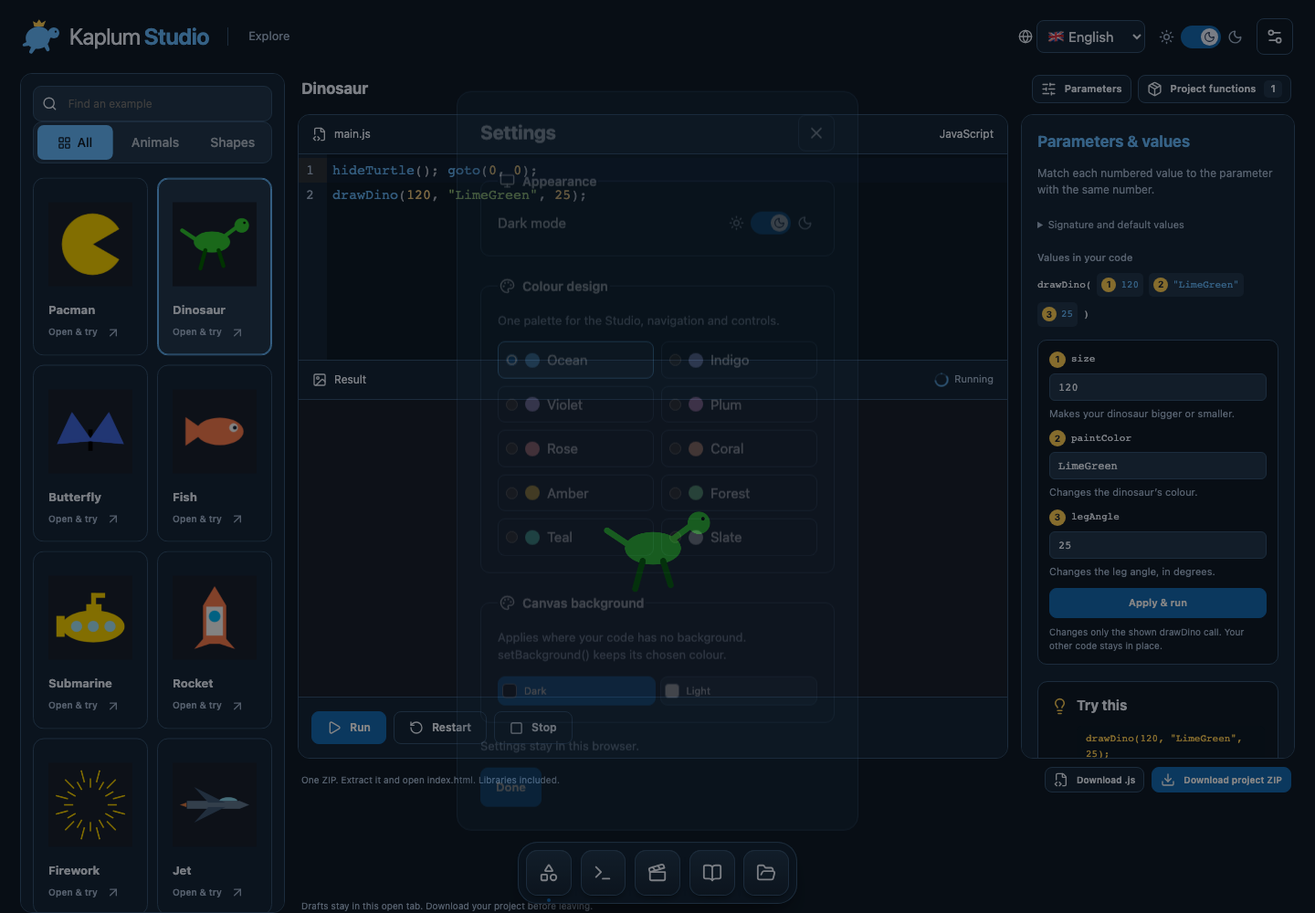
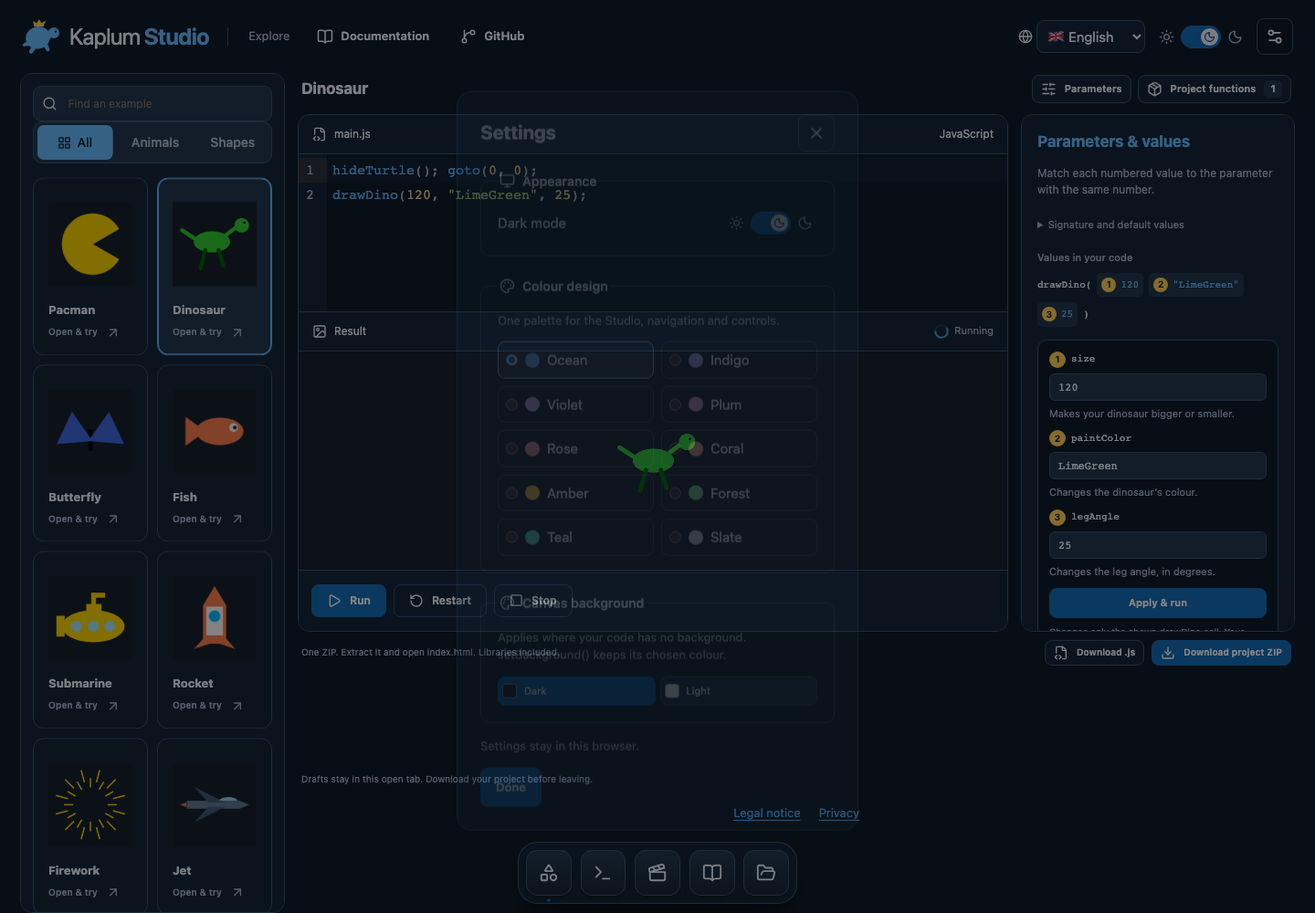
Add multilingual documentation and public release navigation

diff --git a/src/docs-copy.js b/src/docs-copy.js
@@ -1,0 +1,107 @@
+export const docsCopy = {
+  "en": {
+    "title": "Documentation",
+    "studio": "Open Studio",
+    "search": "Search commands",
+    "start": "Getting started",
+    "startText": "Choose a figure, change a parameter and watch the result. Open it in Studio to edit the JavaScript, then use Run, Restart or Stop.",
+    "parameters": "Parameters",
+    "parametersText": "Arguments are the values inside parentheses. Their order matches the parameter names in the signature. A default after = is used when an argument is omitted. Strings need quotes; numbers and booleans do not.",
+    "coordinates": "Coordinates",
+    "coordinatesText": "The centre is (0, 0). Positive x goes right; positive y goes up. Distances use logical drawing units, not screen pixels. 0° points up; positive turns go clockwise. hideTurtle() hides the arrow without moving it.",
+    "reference": "Command reference",
+    "offline": "Offline projects",
+    "offlineText": "Download project ZIP from Studio. Extract the whole ZIP and open index.html. Edit program.js and reload the browser. Keep the bundled engine files beside the HTML. No account, server or internet is required.",
+    "about": "About this release",
+    "aboutText": "An early open-source teaching tool by Enis Uysal. The project code is MIT; third-party UI components retain their own notices. Translations are AI-assisted and have not received native-speaker review. Safari and real classroom evaluation remain outstanding. Drafts are held in memory; export before reloading.",
+    "meaning": "Meaning",
+    "defaultValue": "Default",
+    "example": "Example",
+    "try": "Try in Studio",
+    "empty": "No commands found"
+  },
+  "de": {
+    "title": "Dokumentation",
+    "studio": "Studio öffnen",
+    "search": "Befehle suchen",
+    "start": "Erste Schritte",
+    "startText": "Wähle eine Figur, ändere einen Parameter und beobachte das Ergebnis. Öffne sie im Studio, um JavaScript zu bearbeiten. Nutze Ausführen, Neustart oder Stoppen.",
+    "parameters": "Parameter",
+    "parametersText": "Argumente sind die Werte in den Klammern. Ihre Reihenfolge entspricht den Parametern der Signatur. Ein Standardwert nach = gilt, wenn du ein Argument weglässt. Texte brauchen Anführungszeichen; Zahlen und Wahrheitswerte nicht.",
+    "coordinates": "Koordinaten",
+    "coordinatesText": "Die Mitte ist (0, 0). Positives x geht nach rechts, positives y nach oben. Abstände sind logische Zeicheneinheiten, keine Bildschirmpixel. 0° zeigt nach oben; positive Drehungen gehen im Uhrzeigersinn. hideTurtle() versteckt den Pfeil, ohne ihn zu bewegen.",
+    "reference": "Befehlsreferenz",
+    "offline": "Offline-Projekte",
+    "offlineText": "Lade im Studio das Projekt-ZIP herunter. Entpacke das gesamte ZIP und öffne index.html. Bearbeite program.js und lade den Browser neu. Die Engine-Dateien müssen neben dem HTML bleiben. Kein Konto, Server oder Internet nötig.",
+    "about": "Über diese Version",
+    "aboutText": "Ein frühes Open-Source-Lernwerkzeug von Enis Uysal. Der Projektcode ist MIT-lizenziert; UI-Komponenten behalten ihre eigenen Lizenzhinweise. Übersetzungen sind KI-unterstützt und noch nicht muttersprachlich geprüft. Safari und Unterrichtserprobung stehen aus. Entwürfe liegen im Arbeitsspeicher: vor dem Neuladen exportieren.",
+    "meaning": "Bedeutung",
+    "defaultValue": "Standard",
+    "example": "Beispiel",
+    "try": "Im Studio ausprobieren",
+    "empty": "Keine Befehle gefunden"
+  },
+  "ja": {
+    "title": "ドキュメント",
+    "studio": "Studioを開く",
+    "search": "コマンドを検索",
+    "start": "はじめに",
+    "startText": "図形を選び、パラメータを変えて結果を見ましょう。StudioでJavaScriptを編集し、実行・再開始・停止を使います。",
+    "parameters": "パラメータ",
+    "parametersText": "引数は括弧内の値です。順番はシグネチャのパラメータ名に対応します。=の後は省略時の既定値です。文字列には引用符が必要ですが、数値と真偽値には不要です。",
+    "coordinates": "座標",
+    "coordinatesText": "中心は(0, 0)です。正のxは右、正のyは上です。距離は画面のピクセルではなく論理描画単位です。0°は上、正の回転は時計回りです。hideTurtle()は位置を変えず矢印を隠します。",
+    "reference": "コマンド一覧",
+    "offline": "オフラインのプロジェクト",
+    "offlineText": "StudioからプロジェクトZIPをダウンロードし、すべて展開してindex.htmlを開きます。program.jsを編集してブラウザを再読み込みします。エンジンのファイルもHTMLと一緒に保持します。アカウント、サーバー、インターネットは不要です。",
+    "about": "このバージョンについて",
+    "aboutText": "Enis Uysalによる初期のオープンソース学習ツールです。プロジェクトはMITライセンスで、外部UIのライセンス表記も保持します。翻訳はAI支援によるもので、母語話者の確認は未実施です。Safariと授業での評価も未実施です。下書きはメモリ内にあるため、再読み込み前にエクスポートしてください。",
+    "meaning": "意味",
+    "defaultValue": "既定値",
+    "example": "例",
+    "try": "Studioで試す",
+    "empty": "コマンドが見つかりません"
+  },
+  "tr": {
+    "title": "Belgeler",
+    "studio": "Studio’yu aç",
+    "search": "Komut ara",
+    "start": "Başlangıç",
+    "startText": "Bir şekil seç, parametreyi değiştir ve sonucu izle. JavaScript’i düzenlemek için Studio’da aç; çalıştır, yeniden başlat veya durdur.",
+    "parameters": "Parametreler",
+    "parametersText": "Argümanlar parantez içindeki değerlerdir. Sıraları imzadaki parametre adlarıyla eşleşir. = sonrasındaki değer, argüman atlanırsa kullanılır. Metinler tırnak ister; sayılar ve mantıksal değerler istemez.",
+    "coordinates": "Koordinatlar",
+    "coordinatesText": "Merkez (0, 0) noktasıdır. Pozitif x sağa, pozitif y yukarı gider. Mesafeler ekran pikseli değil mantıksal çizim birimidir. 0° yukarı bakar; pozitif dönüş saat yönündedir. hideTurtle() oku konumunu değiştirmeden gizler.",
+    "reference": "Komut referansı",
+    "offline": "Çevrimdışı projeler",
+    "offlineText": "Studio’dan proje ZIP dosyasını indir. Tümünü çıkar ve index.html dosyasını aç. program.js dosyasını düzenle ve tarayıcıyı yenile. Motor dosyalarını HTML ile birlikte tut. Hesap, sunucu veya internet gerekmez.",
+    "about": "Bu sürüm hakkında",
+    "aboutText": "Enis Uysal’ın erken aşamadaki açık kaynak öğrenme aracı. Proje MIT lisanslıdır; harici UI bileşenleri kendi lisans bildirimlerini korur. Çeviriler AI desteklidir ve ana dili konuşanlarca incelenmemiştir. Safari ve sınıf değerlendirmesi henüz yapılmamıştır. Taslaklar bellektedir; yenilemeden önce dışa aktar.",
+    "meaning": "Anlam",
+    "defaultValue": "Varsayılan",
+    "example": "Örnek",
+    "try": "Studio’da dene",
+    "empty": "Komut bulunamadı"
+  },
+  "hy": {
+    "title": "Փաստաթղթեր",
+    "studio": "Բացել Studio-ն",
+    "search": "Որոնել հրամաններ",
+    "start": "Առաջին քայլերը",
+    "startText": "Ընտրիր պատկեր, փոխիր պարամետրը և դիտիր արդյունքը։ Բացիր Studio-ում՝ JavaScript-ը խմբագրելու համար, ապա գործարկիր, վերագործարկիր կամ կանգնեցրու։",
+    "parameters": "Պարամետրեր",
+    "parametersText": "Արգումենտները փակագծերի արժեքներն են։ Դրանց հերթականությունը համապատասխանում է ստորագրության պարամետրերին։ = նշանից հետո գրվածը լռելյայն արժեքն է։ Տեքստը պետք է լինի չակերտներում, թվերն ու տրամաբանական արժեքները՝ ոչ։",
+    "coordinates": "Կոորդինատներ",
+    "coordinatesText": "Կենտրոնը (0, 0) է։ Դրական x-ը գնում է աջ, դրական y-ը՝ վերև։ Հեռավորությունները տրամաբանական գծման միավորներ են, ոչ էկրանի պիքսելներ։ 0°-ն ուղղված է վերև, դրական պտույտը՝ ժամացույցի սլաքի ուղղությամբ։ hideTurtle()-ը թաքցնում է սլաքը՝ առանց տեղափոխելու։",
+    "reference": "Հրամանների տեղեկատու",
+    "offline": "Անցանց նախագծեր",
+    "offlineText": "Studio-ից ներբեռնիր նախագծի ZIP-ը։ Ամբողջությամբ բացիր արխիվը և բացիր index.html-ը։ Խմբագրիր program.js-ը և վերաբեռնիր դիտարկիչը։ Շարժիչի ֆայլերը պահիր HTML-ի կողքին։ Հաշիվ, սերվեր կամ ինտերնետ պետք չէ։",
+    "about": "Այս տարբերակի մասին",
+    "aboutText": "Enis Uysal-ի վաղ փուլի բաց կոդով ուսուցման գործիք։ Նախագիծը MIT լիցենզիայով է, արտաքին UI բաղադրիչները պահպանում են իրենց լիցենզիաները։ Թարգմանությունները կատարվել են AI-ի օգնությամբ և մայրենի լեզվով ստուգված չեն։ Safari-ի ու դասարանում գնահատումը դեռ չի կատարվել։ Սևագրերը հիշողության մեջ են․ արտահանիր մինչև վերաբեռնելը։",
+    "meaning": "Իմաստ",
+    "defaultValue": "Լռելյայն",
+    "example": "Օրինակ",
+    "try": "Փորձել Studio-ում",
+    "empty": "Հրամաններ չեն գտնվել"
+  }
+};

diff --git a/components/Documentation.jsx b/components/Documentation.jsx
@@ -1,0 +1,66 @@
+"use client";
+import { useEffect, useRef, useState } from "react";
+import { BookOpen, GitBranch, ArrowUpRight, Search, Sun, Moon } from "lucide-react";
+import { docsCopy } from "../src/docs-copy";
+import { reference } from "../src/reference";
+import { parameterMeanings } from "../src/parameters";
+import { assetUrl } from "../src/asset-url";
+import { messages, languages } from "./messages";
+import { legalCopy } from "../src/legal";
+import CataloguePreview from "./CataloguePreview";
+const repository = "https://github.com/pengusto/kaplum-studio";
+export default function Documentation() {
+  const [locale, setLocale] = useState("en"), [theme, setTheme] = useState("dark");
+  const [query, setQuery] = useState(""), [selected, setSelected] = useState("forward");
+  const paused = useRef(new Set());
+  useEffect(() => {
+    try {
+      const saved = JSON.parse(localStorage.getItem("kaplum-settings-v1") || "{}");
+      const requested = new URLSearchParams(location.search).get("lang");
+      if (docsCopy[requested || saved.locale]) setLocale(requested || saved.locale);
+      if (saved.theme === "light") setTheme("light");
+    } catch {}
+  }, []);
+  useEffect(() => { document.documentElement.lang = locale; document.documentElement.dataset.theme = theme; }, [locale, theme]);
+  function preference(key, value) {
+    if (key === "locale") setLocale(value); else setTheme(value);
+    try { const saved = JSON.parse(localStorage.getItem("kaplum-settings-v1") || "{}"); localStorage.setItem("kaplum-settings-v1", JSON.stringify({ ...saved, [key]: value })); } catch {}
+  }
+  const d = docsCopy[locale], t = messages(locale);
+  const entry = reference.find(item => item.name === selected);
+  const params = parameterMeanings(entry, locale);
+  const filtered = reference.filter(item => `${item.name} ${item.alias} ${item.text[locale]}`.toLowerCase().includes(query.toLowerCase()));
+  const sections = ["start", "parameters", "coordinates", "reference", "offline", "about"];
+  return <div className="documentation">
+    <div className="docs-topbar">
+      <a className="brand" href={assetUrl("/#figures")}>Kaplum <strong>Studio</strong></a>
+      <div className="docs-tools">
+        <label><span className="sr-only">{t("language")}</span><select aria-label={t("language")} value={locale} onChange={e => preference("locale", e.target.value)}>{languages.map(([id, , name]) => <option key={id} value={id}>{name}</option>)}</select></label>
+        <button className="icon-button" aria-label={t("darkMode")} onClick={() => preference("theme", theme === "dark" ? "light" : "dark")}>{theme === "dark" ? <Sun size={19}/> : <Moon size={19}/>}</button>
+        <a href={repository} className="docs-repo"><GitBranch size={18}/>GitHub</a>
+      </div>
+    </div>
+    <div className="docs-layout">
+      <aside className="docs-sidebar"><nav aria-label={d.title}>{sections.map(id => <a key={id} href={`#${id}`}>{d[id]}</a>)}</nav><a className="docs-studio-link" href={assetUrl("/#figures")}>{d.studio}<ArrowUpRight size={17}/></a></aside>
+      <main className="docs-content">
+        <div className="docs-heading"><BookOpen size={28}/><h1>{d.title}</h1></div>
+        {['start','parameters','coordinates'].map(id => <section id={id} key={id}><h2>{d[id]}</h2><p>{d[id+'Text']}</p>{id === 'parameters' && <pre><code>drawDino(size, paintColor, legAngle);{"\n"}drawDino(120, "LimeGreen", 25);</code></pre>}</section>)}
+        <section id="reference"><h2>{d.reference} <small>{reference.length}</small></h2>
+          <label className="docs-search"><Search size={18}/><input type="search" aria-label={d.search} placeholder={d.search} value={query} onChange={e => setQuery(e.target.value)}/></label>
+          <div className="docs-reference">
+            <nav className="docs-command-list" aria-label={d.reference}>{filtered.map(item => <button key={item.name} aria-pressed={selected === item.name} onClick={() => setSelected(item.name)}>{item.name}()</button>)}{!filtered.length && <p>{d.empty}</p>}</nav>
+            <article className="docs-command" aria-label={entry.name}>
+              <h3>{entry.name}()</h3><pre><code>{entry.signature}</code></pre><p>{entry.text[locale]}</p>
+              {params.length > 0 && <div className="docs-table-wrap"><table><thead><tr><th>{d.parameters}</th><th>{d.meaning}</th><th>{d.defaultValue}</th></tr></thead><tbody>{params.map((p,i) => <tr key={p.name}><td><code>{i+1}. {p.name}</code></td><td>{p.meaning}</td><td><code>{p.value ?? "—"}</code></td></tr>)}</tbody></table></div>}
+              <p>{entry.anchor?.[locale]}</p><p>{entry.rotation?.[locale]}</p><h4>{d.example}</h4><pre><code>{entry.code}</code></pre>
+              <CataloguePreview key={entry.name} source={entry.code} title={entry.name} id={`docs-${entry.name}`} pausedPreviews={paused.current} t={t}/>
+              <a className="docs-studio-link" href={assetUrl(`/#command/${entry.name}`)}>{d.try}<ArrowUpRight size={17}/></a>
+            </article>
+          </div>
+        </section>
+        {['offline','about'].map(id => <section id={id} key={id}><h2>{d[id]}</h2><p>{d[id+'Text']}</p>{id === 'about' && <p><a href={`${repository}/blob/main/LICENSE`}>MIT</a> · <a href={`${repository}/blob/main/THIRD_PARTY_NOTICES.txt`}>Third-party notices</a> · <a href={`${repository}/issues`}>GitHub Issues</a></p>}</section>)}
+        <footer className="docs-footer"><a href={assetUrl(`/legal/#${locale}`)}>{legalCopy[locale].notice}</a><a href={assetUrl(`/legal/#privacy-${locale}`)}>{legalCopy[locale].privacy}</a></footer>
+      </main>
+    </div>
+  </div>;
+}

diff --git a/app/atlas.css b/app/atlas.css
@@ -932,3 +932,45 @@ main.atlas-layout[data-exploring="true"] { grid-template-columns: minmax(0, 1fr)
 .atlas-workspace { overflow: auto; }
 .atlas-layout[data-exploring="true"] .explorer-overview, .atlas-layout[data-exploring="true"] .configurator-page { height: auto; overflow: visible; }
 html:has(.legal-page), body:has(.legal-page) { height: auto; overflow: auto; }
+
+/* Release navigation is secondary to the learning workspace. */
+.release-links { display: flex; align-items: center; gap: 14px; margin-left: auto; }
+.release-links a, .docs-repo, .docs-studio-link { display: inline-flex; gap: 8px; align-items: center; color: var(--text); }
+.release-links a { font-size: 13px; }
+.release-links a:hover, .documentation a:hover { color: var(--accent); }
+header:has(.release-links) .header-tools { margin-left: 0; }
+html:has(.documentation), body:has(.documentation) { height: auto; overflow: auto; }
+.documentation { min-height: 100dvh; }
+.docs-topbar { display: flex; align-items: center; justify-content: space-between; gap: 20px; padding: 20px 32px; border-bottom: 1px solid var(--line); }
+.docs-tools { display: flex; align-items: center; gap: 16px; }
+.docs-tools select { background: var(--surface); color: var(--text); border: 1px solid var(--line); padding: 8px; border-radius: 8px; }
+.docs-layout { max-width: 1360px; margin: 0 auto; display: grid; grid-template-columns: 220px minmax(0, 1fr); gap: 48px; padding: 36px 32px; }
+.docs-sidebar { position: sticky; top: 24px; align-self: start; }
+.docs-sidebar nav { display: grid; gap: 6px; margin-bottom: 24px; }
+.docs-sidebar nav a { padding: 10px 12px; border-radius: 8px; color: var(--muted); }
+.docs-sidebar nav a:hover { background: var(--surface); color: var(--text); }
+.docs-heading { display: flex; gap: 14px; align-items: center; color: var(--accent); }
+.docs-heading h1 { font-size: clamp(28px, 4vw, 40px); margin: 0; }
+.docs-content { min-width: 0; }
+.docs-content section { scroll-margin-top: 24px; padding: 28px 0; border-bottom: 1px solid var(--line); }
+.docs-content h2 { font-size: 24px; margin: 0 0 16px; }
+.docs-content p { line-height: 1.8; color: var(--muted); max-width: 78ch; }
+.docs-content pre { white-space: pre-wrap; overflow-wrap: anywhere; background: var(--bg); border: 1px solid var(--line); border-radius: 10px; padding: 16px; color: var(--accent); }
+.docs-content small { color: var(--muted); font-size: 14px; }
+.docs-search { display: flex; gap: 10px; align-items: center; padding: 10px 14px; background: var(--surface); border: 1px solid var(--line); border-radius: 10px; margin-bottom: 18px; }
+.docs-search input { width: 100%; border: 0; background: transparent; color: var(--text); font: inherit; }
+.docs-reference { display: grid; grid-template-columns: 190px minmax(0, 1fr); gap: 20px; }
+.docs-command-list { display: flex; flex-direction: column; max-height: 680px; overflow: auto; gap: 4px; }
+.docs-command-list button { text-align: left; padding: 10px; border: 1px solid transparent; border-radius: 8px; background: transparent; color: var(--muted); font: 13px ui-monospace, monospace; cursor: pointer; }
+.docs-command-list button[aria-pressed="true"] { color: var(--accent); background: var(--surface); border-color: var(--line); }
+.docs-command { min-width: 0; padding: 20px; border: 1px solid var(--line); border-radius: 12px; background: var(--surface); }
+.docs-command h3 { font-size: 22px; margin: 0 0 12px; }
+.docs-command .catalogue-preview { margin: 16px 0; }
+.docs-command .canvas-surface { height: 260px; }
+.docs-table-wrap { overflow: auto; }
+.docs-command table { width: 100%; border-collapse: collapse; font-size: 13px; }
+.docs-command th, .docs-command td { padding: 10px 8px; text-align: left; border-bottom: 1px solid var(--line); }
+.docs-footer { display: flex; gap: 20px; padding: 24px 0; font-size: 13px; color: var(--muted); }
+@media (max-width: 850px) { .release-links span { display: none; } .docs-layout { grid-template-columns: 1fr; gap: 16px; padding: 24px 20px; } .docs-sidebar { position: static; } .docs-sidebar nav { display: flex; flex-wrap: wrap; gap: 4px; } }
+@media (max-width: 550px) { .docs-topbar { padding: 16px; flex-wrap: wrap; } .docs-reference { grid-template-columns: 1fr; } .docs-command-list { flex-direction: row; max-height: none; overflow-x: auto; } .docs-command-list button { flex-shrink: 0; } .docs-command { padding: 14px; } .release-links { gap: 10px; } }
+.sr-only { position: absolute; width: 1px; height: 1px; padding: 0; margin: -1px; overflow: hidden; clip: rect(0, 0, 0, 0); white-space: nowrap; border: 0; }

diff --git a/tests/docs.spec.js b/tests/docs.spec.js
@@ -1,0 +1,34 @@
+import { test, expect } from '@playwright/test';
+import { docsCopy } from '../src/docs-copy';
+import { reference } from '../src/reference';
+const base = process.env.NEXT_PUBLIC_BASE_PATH || '';
+test('Studio links to its repository and localized documentation', async ({ page }) => {
+  await page.goto(`${base}/#figures`);
+  await expect(page.locator('.release-links a[href="https://github.com/pengusto/kaplum-studio"]')).toBeVisible();
+  await page.locator('.release-links a').first().click();
+  await expect(page).toHaveURL(/\/docs\/\?lang=en$/);
+  await expect(page.locator('.docs-heading')).toContainText('Documentation');
+});
+test('documentation shares all command contracts, languages and real preview execution', async ({ page }) => {
+  const errors=[]; page.on('pageerror', e => errors.push(e.message));
+  await page.goto(`${base}/docs/`);
+  for (const id of ['en','de','ja','tr','hy']) {
+    await page.locator('.docs-tools select').selectOption(id);
+    await expect(page.locator('html')).toHaveAttribute('lang',id);
+    await expect(page.locator('h1')).toHaveText(docsCopy[id].title);
+  }
+  await expect(page.locator('.docs-command-list button')).toHaveCount(reference.length);
+  await page.locator('.docs-search input').fill('drawDino');
+  await page.locator('.docs-command-list button').click();
+  await expect(page.locator('.docs-command h3')).toHaveText('drawDino()');
+  await expect(page.locator('.docs-command tbody tr')).toHaveCount(3);
+  await page.locator('.catalogue-preview').scrollIntoViewIfNeeded();
+  await expect(page.locator('.catalogue-preview')).toHaveAttribute('data-drawn','true');
+  await expect(page.locator('.docs-command a')).toHaveAttribute('href',`${base}/#command/drawDino`);
+  await page.reload(); await expect(page.locator('html')).toHaveAttribute('lang','hy');
+  await page.setViewportSize({width:390,height:844});
+  expect(await page.evaluate(() => document.documentElement.scrollWidth <= innerWidth)).toBe(true);
+  await page.locator('.docs-footer').scrollIntoViewIfNeeded();
+  await expect(page.locator('.docs-footer')).toBeInViewport();
+  expect(errors).toEqual([]);
+});

diff --git a/components/Studio.jsx b/components/Studio.jsx
@@ -1,8 +1,10 @@
 "use client";
+import { docsCopy } from "../src/docs-copy";
 import { legalCopy } from "../src/legal";
 import { assetUrl } from "../src/asset-url";
 import { useEffect, useRef, useState } from "react";
 import {
+  GitBranch,
   Shapes,
   Terminal,
   Clapperboard,
@@ -151,6 +153,10 @@ export default function Studio() {
             ? t(section)
             : t("discover")}
         </span>
+        <nav className="release-links" aria-label={docsCopy[preferences.locale].title}>
+          <a href={assetUrl(`/docs/?lang=${preferences.locale}`)}><BookOpen size={18}/><span>{docsCopy[preferences.locale].title}</span></a>
+          <a href="https://github.com/pengusto/kaplum-studio" aria-label="GitHub"><GitBranch size={18}/><span>GitHub</span></a>
+        </nav>
         <WarmTooltipGroup delay={300} lean={0}>
           <div className="header-tools">
             <label className="language-picker">

diff --git a/app/docs/page.jsx b/app/docs/page.jsx
@@ -1,0 +1,3 @@
+import Documentation from "../../components/Documentation";
+export const metadata = { title: "Documentation — Kaplum Studio", description: "Learn the Kaplum Studio Turtle commands, parameters and offline workflow." };
+export default function DocsPage() { return <Documentation />; }

diff --git a/CONTRIBUTING.md b/CONTRIBUTING.md
@@ -1,0 +1,18 @@
+# Contributing to Kaplum Studio
+
+Small, focused contributions are welcome. Describe the learner-facing problem in a GitHub issue before starting a large change. Do not upload student projects, personal data or classroom materials.
+
+Use Bun 1.4.2 and the committed lockfile:
+
+```sh
+bun install --frozen-lockfile
+bun run build
+bun run test
+PLAYWRIGHT_BROWSER=firefox bun run test
+```
+
+For deployment changes, also build and test with `NEXT_PUBLIC_BASE_PATH=/kaplum-studio`. Public UI text must cover English, German, Japanese, Turkish and Armenian. Keep JavaScript identifiers English. Translation completeness is separate from native-speaker quality; language corrections are welcome.
+
+Command signatures, descriptions and examples live in `src/reference.js` and are shared by Studio and documentation. Change the contract, runtime and relevant behaviour tests together. Keep drawing size independent from screen resolution, visible-only preview execution, pause intent, sandbox isolation and exact-source offline exports.
+
+In a pull request, explain the problem, change and checks. Include screenshots for visible changes. Preserve third-party licence notices. Never submit credentials or private teaching archives.

diff --git a/docs/project-status.md b/docs/project-status.md
@@ -27,3 +27,7 @@ On 12 October 2026, the owner confirmed that `engine/functions.js` contains help
 ## Release closeout
 
 All five UI dictionaries and existing teaching translations are selectable and persist across reloads. Native-speaker review remains outstanding. Root deployment remains supported; GitHub Pages builds at `/kaplum-studio` and asset loading, favicon and ZIP exports share that mount path. Browser and deployment verification are recorded in the GitHub workflow runs.
+
+## Documentation and release navigation
+
+The public `/docs/` guide shares the maintained command reference, parameter meanings and sandbox previews with Studio. It covers getting started, coordinates, parameters and offline exports in all five UI languages. The Studio header links to documentation and the public repository. Contribution guidance and bug/learning-improvement templates live in the repository. Translation review, Safari testing and curriculum validation remain outstanding; this remains an early-development release.

diff --git a/README.md b/README.md
@@ -4,7 +4,7 @@
 [![CI: GitHub Actions](https://img.shields.io/badge/CI-GitHub%20Actions-2088FF?logo=githubactions&logoColor=white)](.github/workflows/ci.yml)
 [![Status: early development](https://img.shields.io/badge/status-early%20development-orange)](#project-status)
 
-[**Live Studio**](https://pengusto.github.io/kaplum-studio/) · **English** · [Deutsch](docs/readme/README.de.md)
+[**Live Studio**](https://pengusto.github.io/kaplum-studio/) · [**Documentation**](https://pengusto.github.io/kaplum-studio/docs/) · **English** · [Deutsch](docs/readme/README.de.md)
 
 Kaplum Studio is a visual JavaScript Turtle studio for children who are new to programming. Learners pick a drawing or animation, see its code next to the live result, understand what each parameter does, change a value and immediately see the effect.
 

diff --git a/.github/ISSUE_TEMPLATE/bug_report.md b/.github/ISSUE_TEMPLATE/bug_report.md
@@ -1,0 +1,15 @@
+---
+name: Bug report
+about: Report a reproducible Studio problem
+---
+## What happened?
+
+## What did you expect?
+
+## Steps to reproduce
+
+## Environment
+Browser/version, device, interface language, dark/light mode and Studio URL:
+
+## Example or screenshot
+Use a minimal example you own. Remove personal data and student work.

diff --git a/.github/ISSUE_TEMPLATE/feature_request.md b/.github/ISSUE_TEMPLATE/feature_request.md
@@ -1,0 +1,9 @@
+---
+name: Learning improvement
+about: Suggest an improvement for learners or teachers
+---
+## Learning problem
+
+## Proposed improvement
+
+## How would a learner use it?
